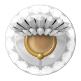
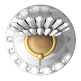
Mexica: light the Pilli Mexica as ZÈRTZ lights its pieces, without the shoulder knot
Claude-Session: https://claude.ai/code/session_01P5r4sdmPFjyHFbMXuL3JW2

diff --git a/games/mexica-ui/src/lib/board/lookOutlines.ts b/games/mexica-ui/src/lib/board/lookOutlines.ts
@@ -1,6 +1,6 @@
 // Written by scripts/render-looks.mjs: each figure's outline, by the name of its look.
 export const LOOK_OUTLINES: Record<string, string> = {
-    pilli: 'M-0.09 -32.46L-0.54 -32.24L-1.59 -31.29L-1.48 -30.96L-1.48 -30.07L-1.37 -29.96L-1.37 -29.18L-1.26 -29.07L-1.31 -28.68L-1.59 -28.74L-1.7 -29.07L-1.81 -30.29L-2.09 -31.24L-3.54 -31.9L-3.98 -31.79L-4.48 -31.29L-4.92 -30.4L-4.92 -29.96L-3.87 -27.46L-4.04 -27.52L-5.15 -29.74L-5.42 -30.02L-6.2 -30.24L-7.09 -30.24L-7.48 -29.85L-7.7 -28.18L-6.09 -26.02L-7.15 -27.18L-7.98 -27.9L-8.09 -27.79L-8.98 -27.79L-9.31 -27.68L-9.59 -27.4L-9.59 -26.74L-9.04 -25.52L-9.04 -25.29L-7.81 -24.29L-8.09 -24.35L-8.76 -24.79L-9.09 -24.79L-10.04 -24.29L-10.15 -24.07L-10.04 -23.74L-8.2 -22.02L-7.26 -21.63L-7.54 -21.57L-7.87 -21.68L-8.09 -21.46L-8.54 -21.35L-8.81 -21.07L-8.7 -20.85L-7.65 -20.24L-6.76 -20.02L-6.09 -19.46L-5.76 -19.35L-5.76 -19.24L-5.98 -19.24L-6.37 -18.96L-5.98 -18.68L-5.54 -18.68L-5.37 -18.52L-5.37 -18.07L-5.15 -17.63L-6.31 -16.9L-7.48 -15.74L-8.04 -14.85L-8.26 -14.18L-8.26 -13.74L-8.37 -13.63L-8.26 -12.63L-8.15 -12.52L-8.15 -11.63L-7.7 -10.63L-7.04 -9.85L-6.48 -9.4L-6.48 -9.18L-6.87 -8.46L-7.54 -8.13L-7.98 -7.68L-8.31 -7.57L-9.81 -6.18L-10.48 -5.29L-10.59 -4.96L-10.48 -4.85L-10.65 -4.9L-10.81 -4.74L-11.37 -3.4L-11.37 -3.07L-11.59 -2.63L-11.7 -1.74L-11.81 -1.63L-11.81 0.37L-11.7 0.48L-11.7 0.93L-11.37 2.04L-10.48 3.71L-8.54 5.76L-7.42 6.54L-5.42 7.54L-3.2 8.21L-2.09 8.32L-1.98 8.43L0.69 8.54L0.8 8.43L2.69 8.32L2.8 8.21L3.24 8.21L5.13 7.65L7.24 6.65L8.8 5.54L10.41 3.82L11.19 2.48L11.74 0.82L11.85 -1.29L11.74 -1.4L11.74 -1.96L11.63 -2.07L11.3 -3.63L10.74 -4.85L10.52 -4.85L10.63 -4.96L10.41 -5.4L10.24 -5.57L10.08 -5.52L10.19 -5.63L10.08 -5.85L8.46 -7.46L8.02 -7.79L7.8 -7.79L7.69 -8.02L7.02 -8.35L6.63 -8.74L6.52 -9.4L7.63 -10.52L8.19 -11.74L8.3 -14.07L7.85 -15.18L7.3 -15.96L6.02 -17.13L5.19 -17.52L5.41 -18.52L5.58 -18.68L6.02 -18.68L6.3 -18.85L6.24 -19.13L5.74 -19.29L5.91 -19.46L6.24 -19.57L6.8 -20.02L7.69 -20.24L8.35 -20.57L8.74 -20.96L8.74 -21.18L8.58 -21.35L8.35 -21.35L7.91 -21.68L7.58 -21.57L7.3 -21.63L8.02 -21.9L8.46 -22.24L9.91 -23.57L10.08 -23.85L10.08 -24.29L9.91 -24.46L9.46 -24.57L9.02 -24.9L7.91 -24.24L7.63 -24.18L8.96 -25.18L9.52 -26.52L9.63 -27.29L9.52 -27.52L9.24 -27.68L8.13 -27.79L8.02 -27.9L6.35 -26.35L6.3 -26.4L6.74 -26.85L7.74 -28.29L7.63 -28.4L7.52 -29.74L7.13 -30.24L6.24 -30.24L6.13 -30.13L5.35 -30.02L4.19 -27.74L3.91 -27.46L3.96 -27.85L4.3 -28.4L4.96 -30.29L4.41 -31.4L3.8 -31.9L3.13 -31.79L1.96 -31.07L1.85 -29.96L1.63 -29.29L1.63 -28.74L1.35 -28.68L1.3 -29.4L1.41 -29.52L1.41 -30.29L1.52 -30.4L1.52 -31.29L0.69 -32.13L0.13 -32.46ZM5.85 -25.85L5.96 -25.85ZM-7.7 -24.18L-7.59 -24.18ZM-7.15 -21.52L-7.04 -21.52ZM6.74 -8.29L6.85 -8.29ZM-7.37 -6.96L-7.26 -6.96ZM7.41 -6.63L7.52 -6.63ZM7.52 -6.4L7.63 -6.4ZM7.63 -6.18L7.74 -6.18ZM7.74 -5.96L7.85 -5.96Z',
+    pilli: 'M-0.09 -32.46L-0.54 -32.24L-1.59 -31.29L-1.48 -30.96L-1.48 -30.07L-1.37 -29.96L-1.37 -29.18L-1.26 -29.07L-1.31 -28.68L-1.59 -28.74L-1.7 -29.07L-1.81 -30.29L-2.09 -31.24L-3.54 -31.9L-3.98 -31.79L-4.48 -31.29L-4.92 -30.4L-4.92 -29.96L-3.87 -27.46L-4.04 -27.52L-5.15 -29.74L-5.42 -30.02L-6.2 -30.24L-7.09 -30.24L-7.48 -29.85L-7.7 -28.18L-6.09 -26.02L-7.15 -27.18L-7.98 -27.9L-8.09 -27.79L-8.98 -27.79L-9.31 -27.68L-9.59 -27.4L-9.59 -26.74L-9.04 -25.52L-9.04 -25.29L-7.81 -24.29L-8.09 -24.35L-8.76 -24.79L-9.09 -24.79L-10.04 -24.29L-10.15 -24.07L-10.04 -23.74L-8.2 -22.02L-7.26 -21.63L-7.54 -21.57L-7.87 -21.68L-8.09 -21.46L-8.54 -21.35L-8.81 -21.07L-8.7 -20.85L-7.65 -20.24L-6.76 -20.02L-6.09 -19.46L-5.76 -19.35L-5.76 -19.24L-5.98 -19.24L-6.37 -18.96L-5.98 -18.68L-5.54 -18.68L-5.37 -18.52L-5.37 -18.07L-5.15 -17.63L-6.31 -16.9L-7.48 -15.74L-8.04 -14.85L-8.26 -14.18L-8.26 -13.74L-8.37 -13.63L-8.26 -12.63L-8.15 -12.52L-8.15 -11.63L-7.7 -10.63L-7.04 -9.85L-6.48 -9.4L-6.48 -9.18L-6.87 -8.46L-7.54 -8.13L-7.98 -7.68L-8.31 -7.57L-9.81 -6.18L-10.48 -5.29L-10.59 -4.96L-10.48 -4.85L-10.65 -4.9L-10.81 -4.74L-11.37 -3.4L-11.37 -3.07L-11.59 -2.63L-11.7 -1.74L-11.81 -1.63L-11.81 0.37L-11.7 0.48L-11.7 0.93L-11.37 2.04L-10.48 3.71L-8.54 5.76L-7.42 6.54L-5.42 7.54L-3.2 8.21L-2.09 8.32L-1.98 8.43L0.69 8.54L0.8 8.43L2.69 8.32L2.8 8.21L3.24 8.21L5.13 7.65L7.24 6.65L8.8 5.54L10.41 3.82L11.19 2.48L11.74 0.82L11.85 -1.29L11.74 -1.4L11.74 -1.96L11.63 -2.07L11.3 -3.63L10.74 -4.85L10.52 -4.85L10.63 -4.96L10.41 -5.4L10.24 -5.57L10.08 -5.52L10.19 -5.63L10.08 -5.85L8.46 -7.46L7.69 -8.02L7.46 -8.02L6.63 -8.74L6.52 -9.4L7.63 -10.52L8.19 -11.74L8.3 -14.07L7.85 -15.18L7.3 -15.96L6.02 -17.13L5.19 -17.52L5.41 -18.52L5.58 -18.68L6.02 -18.68L6.3 -18.85L6.24 -19.13L5.74 -19.29L5.91 -19.46L6.24 -19.57L6.8 -20.02L7.69 -20.24L8.35 -20.57L8.74 -20.96L8.74 -21.18L8.58 -21.35L8.35 -21.35L7.91 -21.68L7.58 -21.57L7.3 -21.63L8.02 -21.9L8.46 -22.24L9.91 -23.57L10.08 -23.85L10.08 -24.29L9.91 -24.46L9.46 -24.57L9.02 -24.9L7.91 -24.24L7.63 -24.18L8.96 -25.18L9.52 -26.52L9.63 -27.29L9.52 -27.52L9.24 -27.68L8.13 -27.79L8.02 -27.9L6.35 -26.35L6.3 -26.4L6.74 -26.85L7.74 -28.29L7.63 -28.4L7.52 -29.74L7.13 -30.24L6.24 -30.24L6.13 -30.13L5.35 -30.02L4.19 -27.74L3.91 -27.46L3.96 -27.85L4.3 -28.4L4.96 -30.29L4.41 -31.4L3.8 -31.9L3.13 -31.79L1.96 -31.07L1.85 -29.96L1.63 -29.29L1.63 -28.74L1.35 -28.68L1.3 -29.4L1.41 -29.52L1.41 -30.29L1.52 -30.4L1.52 -31.29L0.69 -32.13L0.13 -32.46ZM5.85 -25.85L5.96 -25.85ZM-7.7 -24.18L-7.59 -24.18ZM-7.15 -21.52L-7.04 -21.52ZM6.74 -8.29L6.85 -8.29ZM-7.37 -6.96L-7.26 -6.96ZM7.41 -6.63L7.52 -6.63ZM7.52 -6.4L7.63 -6.4ZM7.63 -6.18L7.74 -6.18ZM7.74 -5.96L7.85 -5.96Z',
     'pilli-flat':
         'M-1.42 -11.79L-1.54 -11.68L-2.09 -11.68L-2.2 -11.57L-3.09 -11.46L-3.54 -11.24L-3.87 -11.24L-5.42 -10.57L-7.31 -9.35L-8.31 -8.46L-9.37 -7.29L-10.26 -5.96L-11.04 -4.41L-11.48 -3.07L-11.59 -2.18L-11.7 -2.07L-11.7 -1.41L-11.81 -1.29L-11.81 1.26L-11.7 1.37L-11.7 2.04L-11.59 2.15L-11.48 3.04L-10.48 5.59L-9.04 7.71L-7.2 9.43L-5.42 10.54L-4.54 10.98L-3.2 11.43L-2.42 11.54L-2.31 11.65L-1.76 11.65L-1.65 11.76L-0.65 11.76L-0.54 11.87L1.69 11.76L1.8 11.65L2.35 11.65L4.24 11.09L6.24 10.09L8.13 8.65L9.63 6.93L10.85 4.82L11.52 2.93L11.52 2.48L11.74 1.82L11.74 0.93L11.85 0.82L11.74 -1.85L11.63 -1.96L11.63 -2.41L11.08 -4.29L10.08 -6.29L9.19 -7.52L7.02 -9.57L6.02 -10.24L4.69 -10.91L3.13 -11.46L2.24 -11.57L2.13 -11.68L1.58 -11.68L1.46 -11.79ZM-8.37 -5.96L-8.26 -5.96ZM-5.15 -3.96L-5.04 -3.96Z'
 }

diff --git a/games/mexica-ui/src/lib/board/pilliLight.ts b/games/mexica-ui/src/lib/board/pilliLight.ts
@@ -13,6 +13,7 @@ import {
     linear,
     mix,
     noise2,
+    normalize,
     type Rgb,
     scale,
     smoothstep,
@@ -23,7 +24,6 @@ import { PILLI_PIXELS, PILLI_STYLE, type PilliStyle, pilliBounds } from './pilli
 import { PILLI_SIZE } from './view.js'
 import {
     castRays,
-    LIGHT,
     normalAt,
     occlusion,
     outlineOf,
@@ -34,8 +34,8 @@ import {
 
 const WOOD = { light: linear('#e2bf91'), dark: linear('#b98a5a') }
 const GOLD = { light: linear('#f0c85a'), dark: linear('#8a5a1c') }
-// The light on a painted face turned up towards it shows the paint as it is.
-const FULL_LIGHT = 0.92
+// The light on a painted face turned towards it shows the paint as it is.
+const FULL_LIGHT = 0.95
 
 // What a point of the figure is made of: paint, lightened (above 1) or darkened (below) by
 // what is painted there, bare wood or gold.
@@ -105,28 +105,47 @@ function shineOf(p: Vec, normal: Vec, scene: Scene, tone: number): Sample {
     return { color: [1, 1, 1], alpha: clamp(DRY_BRUSH.strength * edge * up * stroke + detail) }
 }
 
+// Lit as ZÈRTZ lights its pieces: a key light from above, to the left and a little in front,
+// so the side towards the viewer shows its form; little light besides; the edges turned from
+// the viewer reflecting the room above and the paving below, as satin paint does.
+const KEY: Vec = normalize([-0.62, 0.24, 0.75])
+const AMBIENT = 0.22
+const ROOM = 0.32
+const PAVING = 0.5
+const SATIN = 0.45
+
+function fresnel(cosine: number): number {
+    return 0.04 + 0.96 * (1 - clamp(cosine)) ** 5
+}
+
 // In sRGB, as the page lays it over the paint.
 function shade(p: Vec, figure: Figure, toward: Vec): Sample[] {
     const normal = normalAt(p, figure.scene)
-    const sun = clamp(dot(normal, LIGHT)) * (0.3 + 0.7 * softShadow(p, normal, figure.scene))
-    const sky = 0.14 * Math.max(0, normal[1]) + 0.12 * Math.max(0, normal[2])
-    const light = (0.38 + 0.62 * sun + sky) * occlusion(p, normal, figure.scene)
+    const sun = clamp(dot(normal, KEY)) * softShadow(p, normal, figure.scene, KEY)
+    const occluded =
+        occlusion(p, normal, figure.scene) * (0.6 + 0.4 * smoothstep(-0.85, 0.2, normal[2]))
+    const sky = AMBIENT * (0.7 + 0.3 * normal[2])
+    const light = (sky + 0.95 * sun) * occluded
+    const mirror = add(scale(normal, 2 * dot(normal, toward)), scale(toward, -1))
+    const surround = ROOM + (PAVING - ROOM) * smoothstep(0, -0.35, mirror[2])
+    const glance = fresnel(dot(normal, toward)) * surround * occluded
     const finish = figure.finish(p)
-    const bounce = add(scale(normal, 2 * dot(normal, LIGHT)), scale(LIGHT, -1))
-    const facing = clamp(dot(bounce, toward))
     if (finish.kind === 'wood') {
         const grain = mix(WOOD.dark, WOOD.light, 0.55 + 0.45 * Math.sin(p[2] * 2.1 + p[0] * 0.4))
-        return opaque(scale(grain, light * 1.05))
+        const lit = scale(grain, light)
+        return opaque(add(lit, [glance * 0.3, glance * 0.3, glance * 0.3]))
     }
     if (finish.kind === 'gold') {
-        const metal = mix(GOLD.dark, GOLD.light, clamp(sun * 0.8 + facing ** 4 * 0.6))
-        const shine = 0.9 * facing ** 16
-        return opaque(add(scale(metal, 0.35 + 0.75 * light), [shine, shine * 0.9, shine * 0.6]))
+        const half = normalize(add(KEY, toward))
+        const facing = clamp(dot(normal, half))
+        const metal = mix(GOLD.dark, GOLD.light, clamp(sun * 0.7 + facing ** 4 * 0.5))
+        const shine = 0.8 * facing ** 24
+        return opaque(add(scale(metal, 0.3 + 0.8 * light), [shine, shine * 0.9, shine * 0.6]))
     }
-    // As a factor on the paint's sRGB colour; more than full light lightens it.
+    // As a factor on the paint's sRGB colour; more than full light, and the satin's
+    // reflections, lighten it.
     const factor = ((light / FULL_LIGHT) * finish.tone) ** (1 / 2.2)
-    // Matte paint: no gloss, only the light past full lightening it.
-    const white = clamp(Math.max(0, factor - 1) * 0.6)
+    const white = clamp(Math.max(0, factor - 1) * 0.6 + srgb(glance * SATIN))
     const keep = Math.min(factor, 1) * (1 - white)
     const alpha = 1 - keep
     const shine = shineOf(p, normal, figure.scene, finish.tone)
@@ -245,7 +264,7 @@ function body(style: PilliStyle, p: Vec): number {
     let shape = blend(robe(style, p), cape, 1.6)
     if (style.arms) shape = blend(shape, arms(style, p), 0.7)
     if (style.trim) {
-        shape = Math.min(shape, sphere(p, [2.9, 3.6, CAPE_AT + 0.4], 1.05), cord(p))
+        shape = Math.min(shape, cord(p))
         shape -= relief(p)
     }
     return shape
@@ -287,7 +306,6 @@ function bodyFinish(style: PilliStyle, p: Vec): Finish {
         if (p[2] > HEM.foot && p[2] < HEM.top) return paint(fret(p) ? 1.35 : 0.78)
         if (p[2] > HEM.top && p[2] < CAPE_AT - 2 && openingAt(p)) return paint(0.7)
         if (cord(p) < 0.15) return paint(1.2)
-        if (sphere(p, [2.9, 3.6, CAPE_AT + 0.4], 1.05) < 0.2) return paint(1.25)
     }
     if (style.robe === 'pawn' && p[2] < PLINTH.height + 0.2) return paint(0.8)
     if (style.robe === 'bell' && p[2] < 2.4) return paint(0.72)

diff --git a/games/mexica-ui/src/lib/board/raymarch.ts b/games/mexica-ui/src/lib/board/raymarch.ts
@@ -51,17 +51,17 @@ export function occlusion(p: Vec, normal: Vec, scene: Scene): number {
     return clamp(1 - shade * 0.2)
 }
 
-export function softShadow(p: Vec, normal: Vec, scene: Scene): number {
-    let light = 1
+export function softShadow(p: Vec, normal: Vec, scene: Scene, light: Vec = LIGHT): number {
+    let lit = 1
     let travelled = 0.15
     const from = add(p, scale(normal, 0.05))
     for (let step = 0; step < 48 && travelled < 60; step++) {
-        const d = scene(add(from, scale(LIGHT, travelled)))
+        const d = scene(add(from, scale(light, travelled)))
         if (d < 0.001) return 0
-        light = Math.min(light, (6 * d) / travelled)
+        lit = Math.min(lit, (6 * d) / travelled)
         travelled += Math.max(d, 0.08)
     }
-    return clamp(light)
+    return clamp(lit)
 }
 
 // What a ray shows where it meets the piece: a colour in the space `encode` takes to bytes,

diff --git a/games/mexica-ui/src/routes/looks/+page.svelte b/games/mexica-ui/src/routes/looks/+page.svelte
@@ -38,12 +38,9 @@
     let previews: Record<string, string> | undefined = $state()
     type Figure = { url: string; shine: string; outline: string; box: Box }
     let figures: Record<string, Figure> | undefined = $state()
-    // With and without arms, dry-brushed over the darker paints in a range of strengths.
-    const FIGURE_STYLES: [string, PilliStyle][] = [
-        ['no arms', PILLI_STYLE],
-        ['arms', { ...PILLI_STYLE, arms: true }]
-    ]
-    const SHINES = [0, 0.5, 0.8, 1.1]
+    // Dry-brushed over the darker paints in a range of strengths.
+    const FIGURE_STYLES: [string, PilliStyle][] = [['no arms', PILLI_STYLE]]
+    const SHINES = [0, 0.1, 0.2, 0.3, 0.4, 0.5]
     const FIGURE_ROWS = FIGURE_STYLES.flatMap(([name]) => SHINES.map((shine) => ({ name, shine })))
     const FIGURE_COLORS: readonly Color[] = [
         Color.Green,

diff --git a/games/mexica-ui/src/lib/board/pilliShape.ts b/games/mexica-ui/src/lib/board/pilliShape.ts
@@ -6,8 +6,8 @@ import { type Box, PILLI_SIZE } from './view.js'
 // viewer, z up, in board units at full size. A cloaked noble with a bare wooden face and a fan
 // of feathers behind the head.
 //   robe: a bell, or a pawn's concave flare on a ring at the foot.
-//   trim: a stepped fret round the hem, the cloak's opening down the front and a knot on the
-//     shoulder.
+//   trim: a stepped fret round the hem, the cloak's opening down the front and a cord along the
+//     cape's edge.
 //   arms: forearms meeting in front, wooden hands clasped.
 //   fan: a smooth fan, separate feathers, or a second, shorter row of feathers in front.
 //   headband: a gold band round the head with a jewel at the front.
